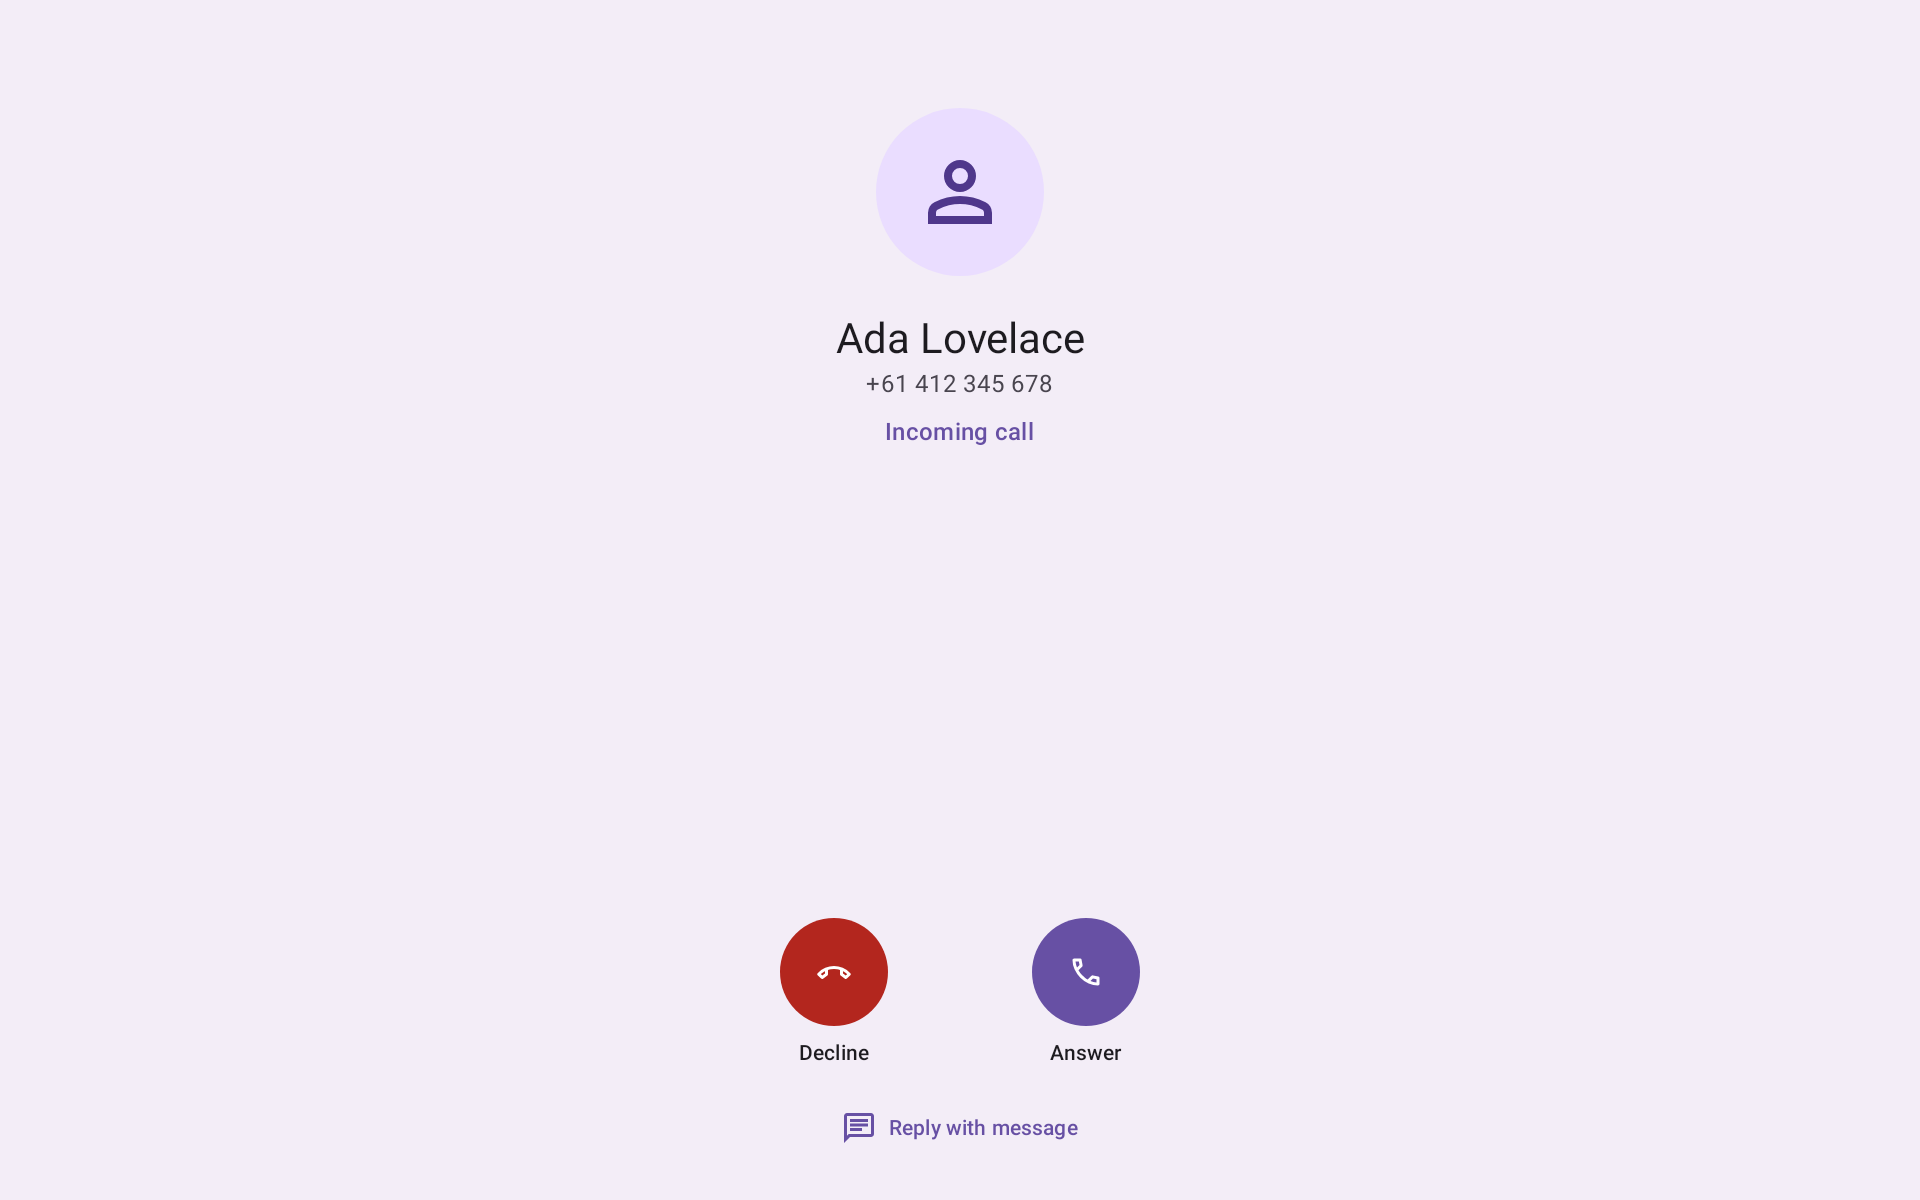
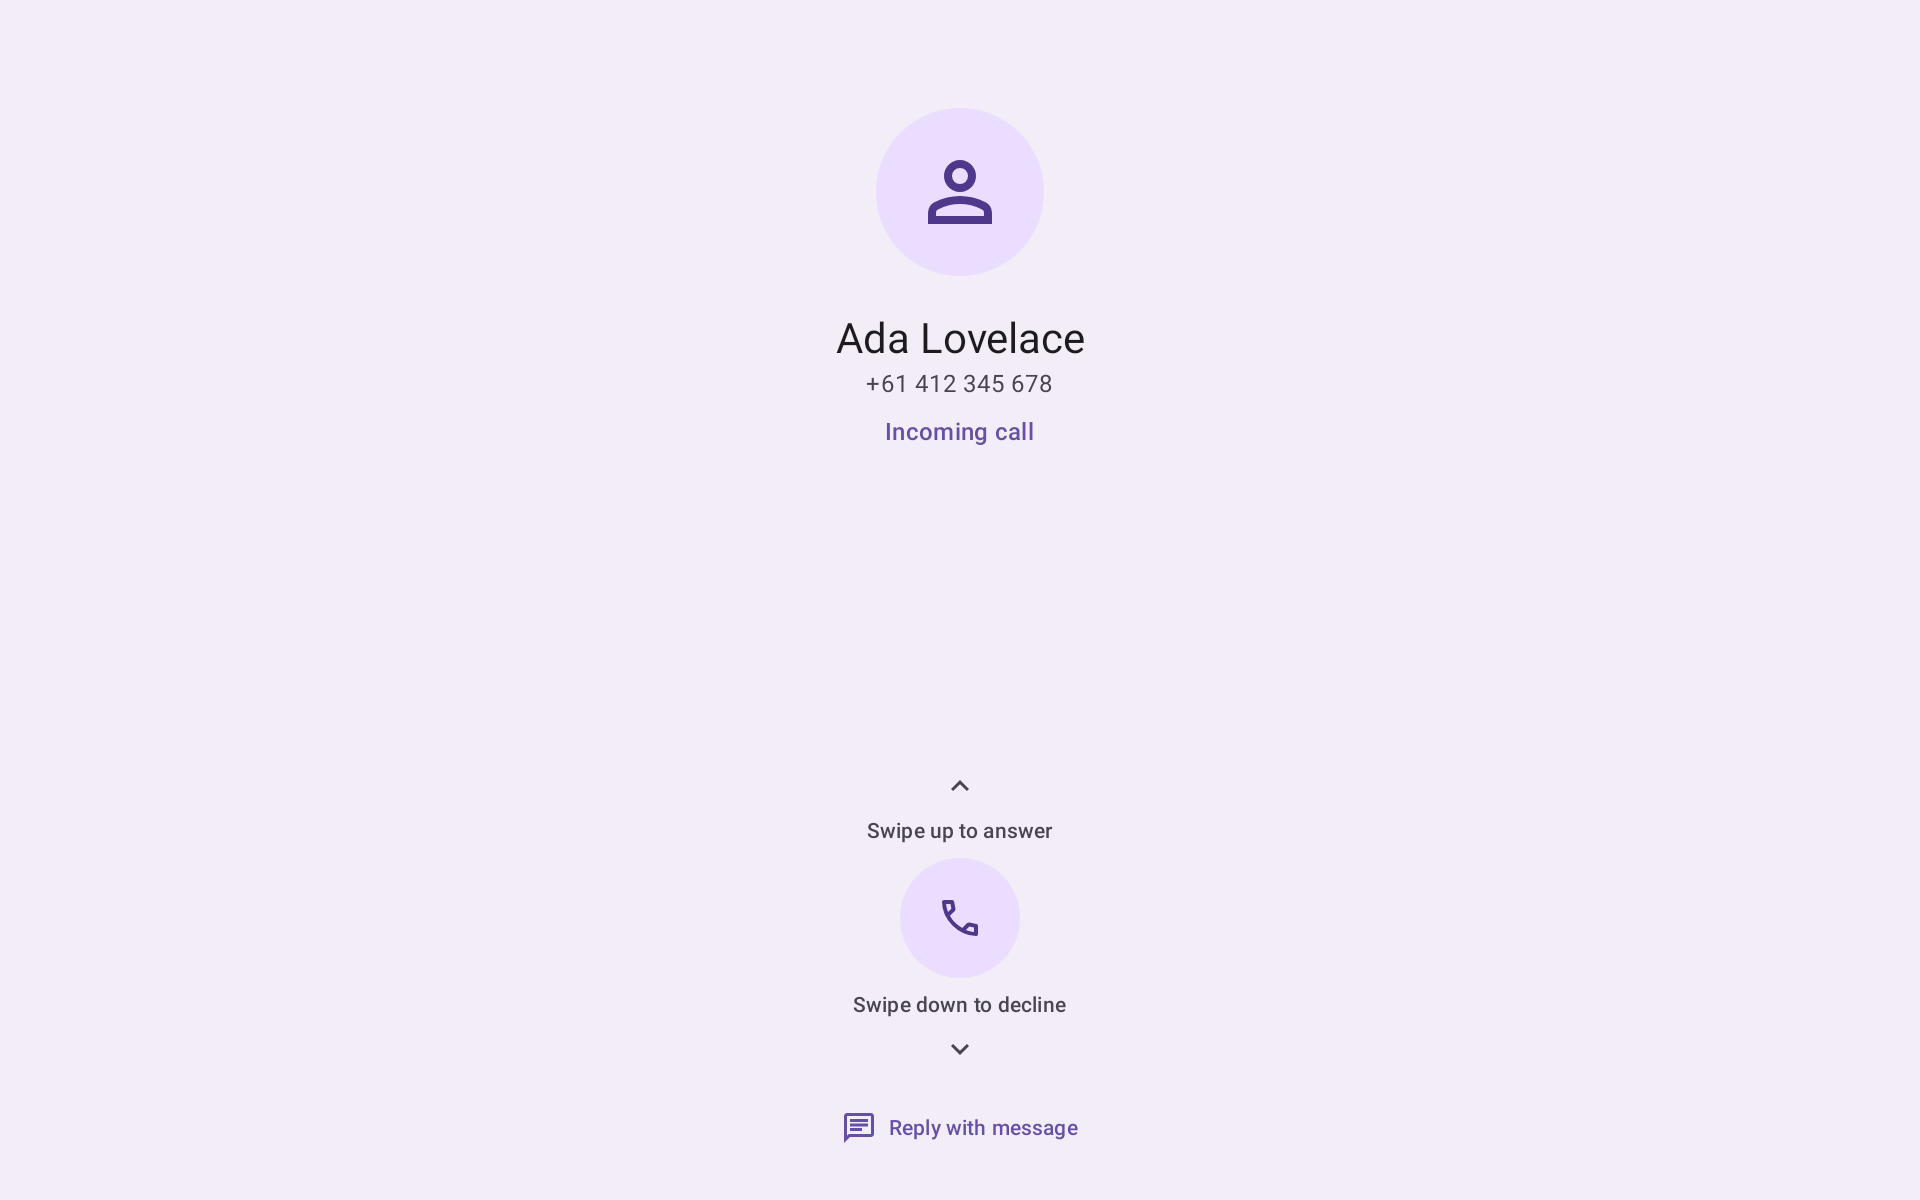
Phone 0.11.0: swipe to answer
An incoming call is answered by swiping the call button up and declined by
swiping down; it springs back short of the threshold and a tap shows a hint.
TalkBack gets Answer and Decline actions. Call waiting keeps its buttons.

Changed region(s): [[0.4062, 0.7708, 0.5938, 0.8942], [0.4375, 0.6783, 0.5312, 0.7092], [0.4688, 0.74, 0.5, 0.7708]]

diff --git a/apps/phone/src/main/kotlin/io/github/michaelmassoni/tessera/phone/ui/SwipeToAnswer.kt b/apps/phone/src/main/kotlin/io/github/michaelmassoni/tessera/phone/ui/SwipeToAnswer.kt
@@ -1,0 +1,144 @@
+package io.github.michaelmassoni.tessera.phone.ui
+
+import androidx.compose.animation.core.Animatable
+import androidx.compose.animation.core.spring
+import androidx.compose.foundation.background
+import androidx.compose.foundation.clickable
+import androidx.compose.foundation.gestures.detectVerticalDragGestures
+import androidx.compose.foundation.layout.Arrangement
+import androidx.compose.foundation.layout.Box
+import androidx.compose.foundation.layout.Column
+import androidx.compose.foundation.layout.fillMaxWidth
+import androidx.compose.foundation.layout.offset
+import androidx.compose.foundation.layout.size
+import androidx.compose.foundation.shape.CircleShape
+import androidx.compose.material3.Icon
+import androidx.compose.material3.MaterialTheme
+import androidx.compose.material3.Text
+import androidx.compose.runtime.Composable
+import androidx.compose.runtime.getValue
+import androidx.compose.runtime.mutableStateOf
+import androidx.compose.runtime.remember
+import androidx.compose.runtime.rememberCoroutineScope
+import androidx.compose.runtime.setValue
+import androidx.compose.ui.Alignment
+import androidx.compose.ui.Modifier
+import androidx.compose.ui.graphics.lerp
+import androidx.compose.ui.input.pointer.pointerInput
+import androidx.compose.ui.platform.LocalDensity
+import androidx.compose.ui.res.painterResource
+import androidx.compose.ui.res.stringResource
+import androidx.compose.ui.semantics.CustomAccessibilityAction
+import androidx.compose.ui.semantics.contentDescription
+import androidx.compose.ui.semantics.customActions
+import androidx.compose.ui.semantics.semantics
+import androidx.compose.ui.unit.IntOffset
+import androidx.compose.ui.unit.dp
+import io.github.michaelmassoni.tessera.phone.R
+import kotlinx.coroutines.launch
+import kotlin.math.abs
+import kotlin.math.roundToInt
+import io.github.michaelmassoni.tessera.core.design.R as DesignR
+
+/**
+ * Answering an incoming call by swiping (docs/phone.md, Swipe to answer): one call button to drag up
+ * to answer or down to decline, so a stray touch in a pocket can't pick up. Let go before the
+ * threshold and it springs back; a tap only says what to do. TalkBack gets Answer and Decline as
+ * actions.
+ */
+@Composable
+internal fun SwipeToAnswer(
+    onAnswer: () -> Unit,
+    onDecline: () -> Unit,
+    modifier: Modifier = Modifier,
+) {
+    val offset = remember { Animatable(0f) }
+    val scope = rememberCoroutineScope()
+    val threshold = with(LocalDensity.current) { THRESHOLD.toPx() }
+    var hinted by remember { mutableStateOf(false) }
+    var done by remember { mutableStateOf(false) }
+    val answerLabel = stringResource(R.string.answer)
+    val declineLabel = stringResource(R.string.decline)
+    val scheme = MaterialTheme.colorScheme
+    // How far towards answering (negative, up) or declining (positive, down), from -1 to 1.
+    val progress = (offset.value / threshold).coerceIn(-1f, 1f)
+    val container =
+        when {
+            progress < 0 -> lerp(scheme.primaryContainer, scheme.primary, -progress)
+            else -> lerp(scheme.primaryContainer, scheme.error, progress)
+        }
+    val content =
+        when {
+            progress < -0.5f -> scheme.onPrimary
+            progress > 0.5f -> scheme.onError
+            else -> scheme.onPrimaryContainer
+        }
+    Column(
+        modifier.fillMaxWidth(),
+        horizontalAlignment = Alignment.CenterHorizontally,
+        verticalArrangement = Arrangement.spacedBy(8.dp),
+    ) {
+        Icon(painterResource(DesignR.drawable.ic_expand_less), contentDescription = null, tint = scheme.onSurfaceVariant)
+        Text(
+            stringResource(if (hinted) R.string.swipe_hint else R.string.swipe_up_to_answer),
+            style = MaterialTheme.typography.labelLarge,
+            color = scheme.onSurfaceVariant,
+        )
+        Box(
+            Modifier
+                .offset { IntOffset(0, offset.value.roundToInt()) }
+                .size(80.dp)
+                .background(container, CircleShape)
+                .semantics {
+                    contentDescription = answerLabel
+                    customActions =
+                        listOf(
+                            CustomAccessibilityAction(answerLabel) {
+                                onAnswer()
+                                true
+                            },
+                            CustomAccessibilityAction(declineLabel) {
+                                onDecline()
+                                true
+                            },
+                        )
+                }.clickable { hinted = true }
+                .pointerInput(Unit) {
+                    detectVerticalDragGestures(
+                        onVerticalDrag = { change, amount ->
+                            change.consume()
+                            if (!done) scope.launch { offset.snapTo((offset.value + amount).coerceIn(-threshold * 1.2f, threshold * 1.2f)) }
+                        },
+                        onDragEnd = {
+                            when {
+                                done -> {}
+
+                                offset.value <= -threshold -> {
+                                    done = true
+                                    onAnswer()
+                                }
+
+                                offset.value >= threshold -> {
+                                    done = true
+                                    onDecline()
+                                }
+
+                                else -> {
+                                    if (abs(offset.value) < threshold / 4) hinted = true
+                                    scope.launch { offset.animateTo(0f, spring()) }
+                                }
+                            }
+                        },
+                        onDragCancel = { scope.launch { offset.animateTo(0f, spring()) } },
+                    )
+                },
+            contentAlignment = Alignment.Center,
+        ) {
+            Icon(painterResource(DesignR.drawable.ic_call), contentDescription = null, tint = content, modifier = Modifier.size(32.dp))
+        }
+        Text(stringResource(R.string.swipe_down_to_decline), style = MaterialTheme.typography.labelLarge, color = scheme.onSurfaceVariant)
+        Icon(painterResource(DesignR.drawable.ic_expand_more), contentDescription = null, tint = scheme.onSurfaceVariant)
+    }
+}
+
+private val THRESHOLD = 120.dp

diff --git a/apps/phone/src/main/kotlin/io/github/michaelmassoni/tessera/phone/ui/InCallScreen.kt b/apps/phone/src/main/kotlin/io/github/michaelmassoni/tessera/phone/ui/InCallScreen.kt
@@ -289,32 +289,38 @@ private fun IncomingControls(
         QuickReplyDialog(onSend = { text -> actions.declineWithMessage(call.id, text) }, onDismiss = { replying = false })
     }
     Column(Modifier.fillMaxWidth(), horizontalAlignment = Alignment.CenterHorizontally) {
-        Row(Modifier.fillMaxWidth(), horizontalArrangement = Arrangement.SpaceEvenly) {
-            RoundAction(
-                DesignR.drawable.ic_call_end,
-                stringResource(R.string.decline),
-                MaterialTheme.colorScheme.error,
-                MaterialTheme.colorScheme.onError,
-            ) {
-                actions.decline(call.id)
-            }
-            if (waiting) {
+        // One call ringing: swipe, so a pocket can't answer it. A second call while on one keeps the
+        // buttons, where Hold & answer and End & answer need choosing between.
+        if (!waiting) {
+            SwipeToAnswer(onAnswer = { actions.answer(call.id) }, onDecline = { actions.decline(call.id) })
+        } else {
+            Row(Modifier.fillMaxWidth(), horizontalArrangement = Arrangement.SpaceEvenly) {
                 RoundAction(
-                    DesignR.drawable.ic_call,
-                    stringResource(R.string.end_and_answer),
-                    MaterialTheme.colorScheme.tertiary,
-                    MaterialTheme.colorScheme.onTertiary,
+                    DesignR.drawable.ic_call_end,
+                    stringResource(R.string.decline),
+                    MaterialTheme.colorScheme.error,
+                    MaterialTheme.colorScheme.onError,
                 ) {
-                    actions.endAndAnswer(call.id)
+                    actions.decline(call.id)
                 }
-            }
-            RoundAction(
-                if (waiting) DesignR.drawable.ic_pause else DesignR.drawable.ic_call,
-                stringResource(if (waiting) R.string.hold_and_answer else R.string.answer),
-                MaterialTheme.colorScheme.primary,
-                MaterialTheme.colorScheme.onPrimary,
-            ) {
-                actions.answer(call.id)
+                if (waiting) {
+                    RoundAction(
+                        DesignR.drawable.ic_call,
+                        stringResource(R.string.end_and_answer),
+                        MaterialTheme.colorScheme.tertiary,
+                        MaterialTheme.colorScheme.onTertiary,
+                    ) {
+                        actions.endAndAnswer(call.id)
+                    }
+                }
+                RoundAction(
+                    if (waiting) DesignR.drawable.ic_pause else DesignR.drawable.ic_call,
+                    stringResource(if (waiting) R.string.hold_and_answer else R.string.answer),
+                    MaterialTheme.colorScheme.primary,
+                    MaterialTheme.colorScheme.onPrimary,
+                ) {
+                    actions.answer(call.id)
+                }
             }
         }
         // Decline with a text: only for a number that can get one.

diff --git a/docs/phone.md b/docs/phone.md
@@ -174,3 +174,11 @@ See [setup.md](setup.md) for what phone asks for the first time it opens.
 Long-press the number on the keypad: **Copy** (once something is typed) and **Paste**. Paste keeps
 only what can be dialled (digits, * and #, and a + at the start), so "Ph: (03) 9876-5432" pastes as
 0398765432, added after what is already typed. `Dialpad.paste` (unit tested).
+
+## Swipe to answer (0.11)
+
+An incoming call is answered by swiping the call button up and declined by swiping it down, so a
+stray touch can't pick up. The button follows the finger and turns the answer or decline colour; let
+go before 120 dp and it springs back, and a tap only shows a hint. TalkBack gets Answer and Decline
+as actions on the button. A second call while you're on one keeps the buttons (Decline, End & answer,
+Hold & answer), where the choice matters. Reply with message stays below.
